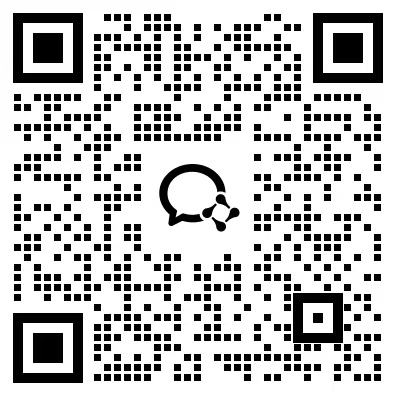
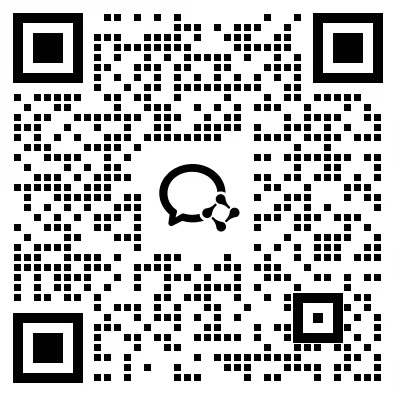
Update community QR code

diff --git a/profile/README.md b/profile/README.md
@@ -72,7 +72,7 @@ AgentWork 的所有内容都遵循四个标准：
 想交流真实工作场景、测试过程、交付结果和失效边界，欢迎扫码加入 AgentWork 交流群。
 
 <p align="center">
-  <img src="../assets/agentwork-wechat-group-qr.png?v=20260906" alt="AgentWork 交流群二维码" width="240">
+  <img src="../assets/agentwork-wechat-group-qr.png?v=20260918" alt="AgentWork 交流群二维码" width="240">
 </p>
 
 <p align="center">
